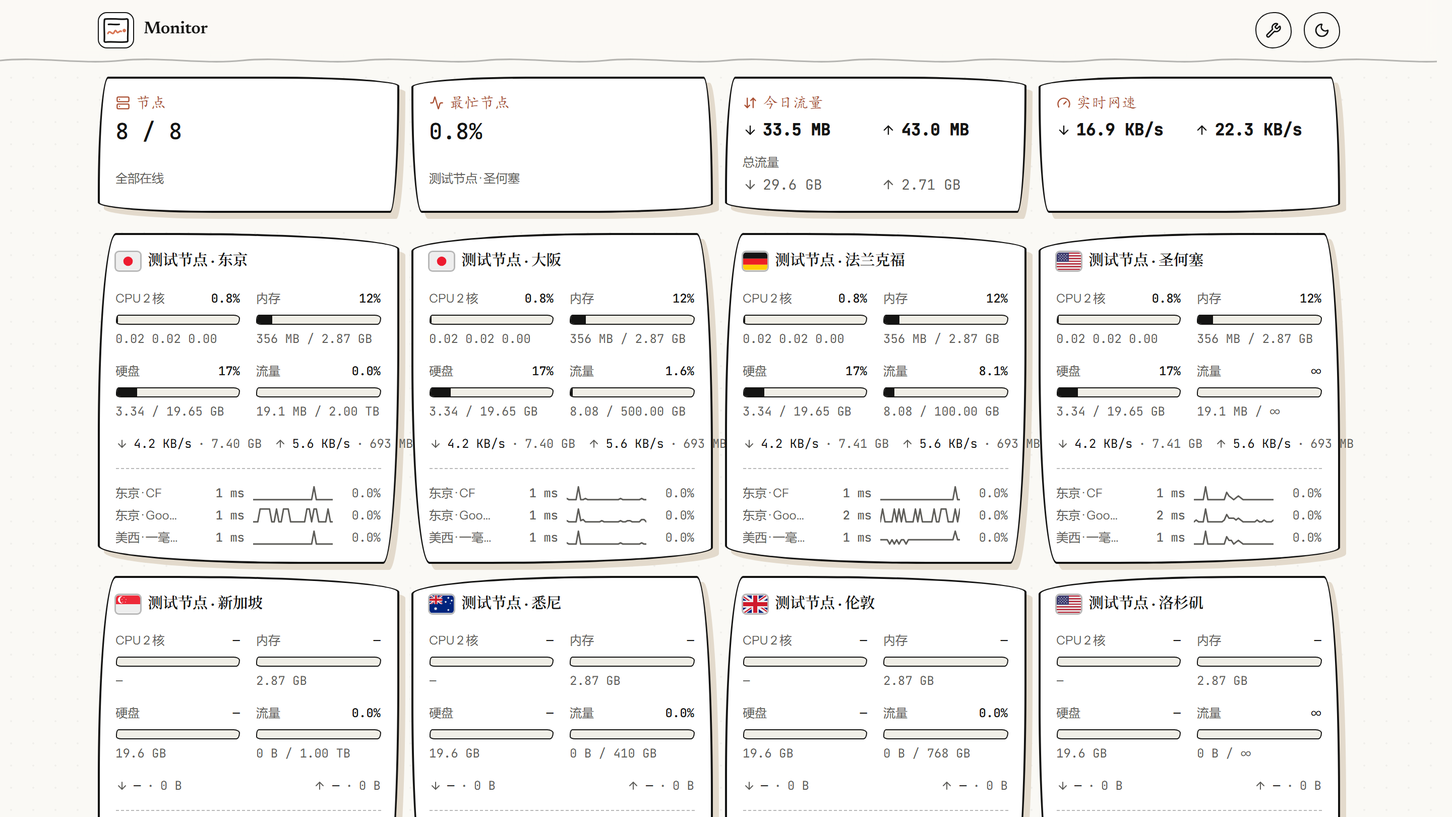
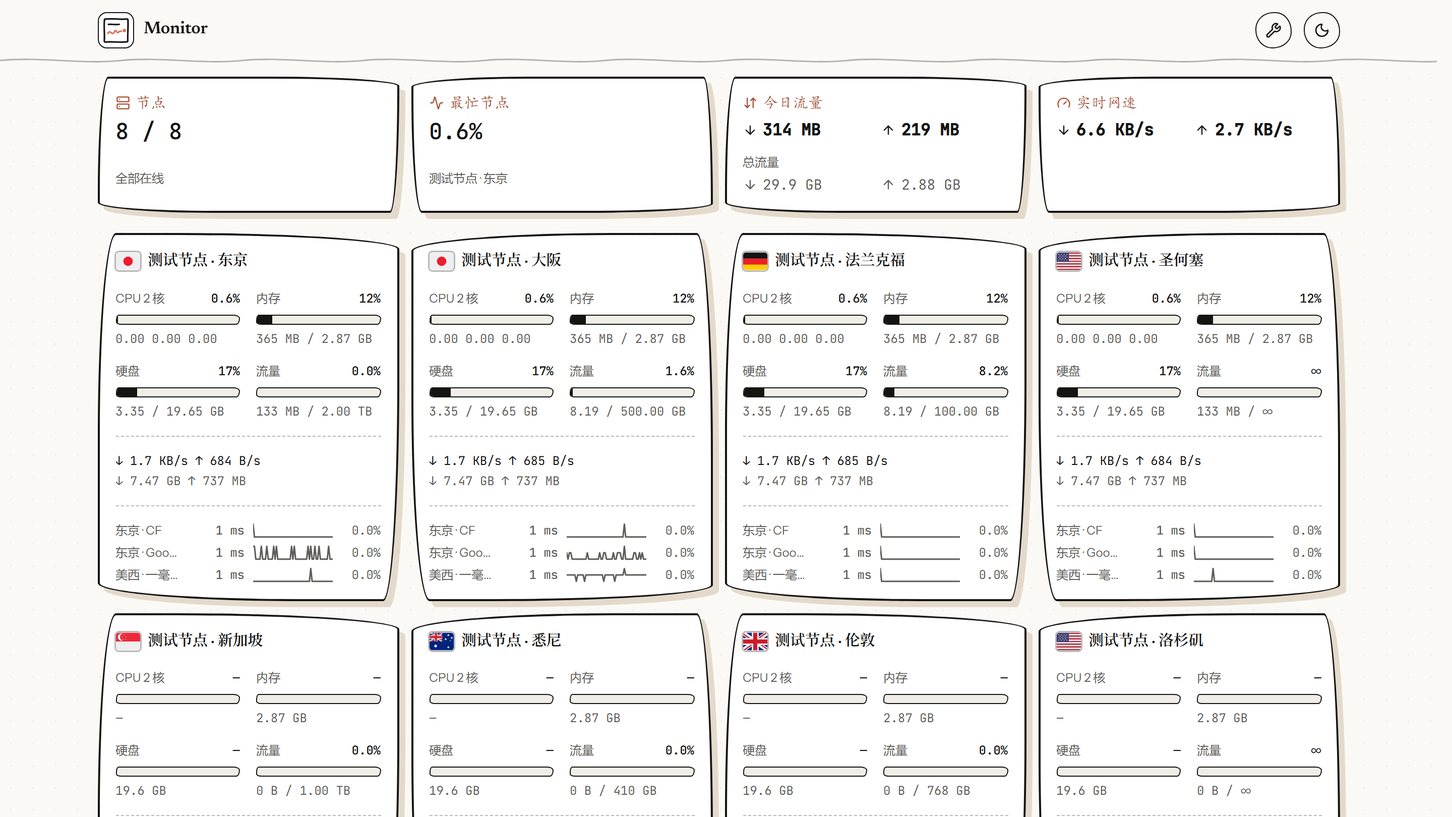
1.1.0：与 jikasei 1.11.x 对齐——新增「简约」卡档并设为默认、经典恢复 2×2 四格、延迟档底部看齐、底部那行允许折行（等宽读数在 4 列下会被截断）

diff --git a/src/components/NodeCard.tsx b/src/components/NodeCard.tsx
@@ -203,17 +203,53 @@ export function NodeCard({ node, onOpen, onWarm, latencyLines, cardStyle, notes 
   /** 指针或键盘刚落到这张卡片上：先把手头这块 chunk（详情页的图表那 391KB）取回来。 */
   onWarm?: () => void
   latencyLines: string
-  cardStyle: "classic" | "latency" | "detailed"
+  cardStyle: "classic" | "latency" | "detailed" | "plain"
   /** 「详细」形态的服务器备注清单（每行 `服务器名=备注`）；空串 = 关闭。 */
   notes: string
 }) {
   const m = node.metrics
   // 详细档：图标、元信息行与三枚读数盒都只在它里面出现；配色仍与另外两档同一套灰。
   const detailed = cardStyle === "detailed"
+  // 简约档：读数格与经典是同一个骨架，只换一套视觉处理——表名提亮成前景色、进度条压细、
+  // 底注变小、格行距收紧、底部网络收成一行（见下方各处 plain 分支）。
+  const plain = cardStyle === "plain"
   // 备注只在「详细」档生效，且清单非空才算开——留空即关闭，这一档保持 1.5.0 的样子。
   const remark = detailed && hasNotes(notes)
   const price = priceText(node)
   const cycle = cycleText(node)
+
+  // 卡片底部那一行网络：简约 / 延迟两档共用**同一个节点**——一行两段，左边实时速率（墨色）、
+  // 右边累计总量（弱化灰），上面一条手画的分隔线；方向用文字 ↓ ↑ 而不是图标，这样整段能原样
+  // 复制成「↓ 88 B/s ↑ 312 B/s」。延迟档原本是「上下行各一组、组内用分隔点连起来」的两端式，
+  // 按要求与简约看齐后也改成这条；两档同一个节点，也是护栏里「逐项相同」那条等价断言的前提。
+  // `data-net` 是给护栏认这一行的锚点（改版后那两条旧判据——按 2×2 那格的类名、按分隔点那行——
+  // 都会失配，命中 0 反而看着像「本来就没有」）。
+  // ★ 这一行**必须允许折行**：本主题的读数走等宽字（JetBrains Mono），比 jikasei 那套 mono 栈宽
+  // 四成左右——同一批数据下 jikasei 那行只要 ~208px，这里要 ~293px，而 4 列（卡片 299px）里只有
+  // ~263px。不折行就两端各自被截成「↓ 3.8 KB/s ↑ 2.8 … / ↓ 7.47 GB ↑ 737…」（实测，见
+  // verify_card_styles 里那条「没有被截断」的断言）。折行后 4 列下是两行、3 列及更宽仍是一行。
+  const netRow = (
+    <div data-net="row" className="tnum mt-4 flex flex-wrap items-center justify-between gap-x-3 gap-y-1 border-t-[1.5px] border-dashed border-line-strong pt-4 text-xs">
+      <span className="truncate">{m ? `↓ ${rate(m.net_rx)} ↑ ${rate(m.net_tx)}` : "—"}</span>
+      <span className="truncate text-muted-foreground">{`↓ ${bytes(node.total_rx)} ↑ ${bytes(node.total_tx)}`}</span>
+    </div>
+  )
+
+  // 经典档底部＝**速率一行、总量一行的 2×2 四格**（与上面读数格同两条列），与上面那条
+  // 一行两段不是一回事。箭头同样是文字 ↓ ↑（不是图标，整段可原样复制）：速率那行的数值用前景色、
+  // 箭头与整行总量用弱化灰。它和简约档的差别只剩「一档是四格、一档是一行」与那几把视觉尺子。
+  const netGrid = (
+    <div data-net="grid" className="tnum mt-4 grid grid-cols-2 gap-x-4 gap-y-2 border-t-[1.5px] border-dashed border-line-strong pt-4 text-xs">
+      <span>
+        <span className="text-muted-foreground">↓</span> {m ? rate(m.net_rx) : "—"}
+      </span>
+      <span>
+        <span className="text-muted-foreground">↑</span> {m ? rate(m.net_tx) : "—"}
+      </span>
+      <span className="text-muted-foreground">↓ {bytes(node.total_rx)}</span>
+      <span className="text-muted-foreground">↑ {bytes(node.total_tx)}</span>
+    </div>
+  )
 
   return (
     <Card
@@ -248,28 +284,36 @@ export function NodeCard({ node, onOpen, onWarm, latencyLines, cardStyle, notes 
         <>
           {detailed && <MetaRow node={node} notes={notes} remark={remark} />}
 
-          <div className="mt-4 grid grid-cols-2 gap-x-4 gap-y-4">
+          <div className={`mt-4 grid grid-cols-2 gap-x-4 ${plain ? "gap-y-3" : "gap-y-4"}`}>
             {/* The core count belongs beside the word CPU: it is what the
                 percentage and the load averages are both measured against. */}
             <Meter
+              plain={plain}
               icon={detailed ? Cpu : undefined}
-              label={`CPU ${node.cpu_cores} 核`}
+              // 简约档：表名提亮，只有那截「N 核」留在弱化灰里（间距用空格而不是 ml-*，
+              // 复制与读屏拿到的仍是「CPU 2 核」）。
+              label={plain
+                ? <>CPU <span className="text-muted-foreground">{node.cpu_cores} 核</span></>
+                : `CPU ${node.cpu_cores} 核`}
               pct={m ? m.cpu : null}
               foot={m ? m.load.map((n) => n.toFixed(2)).join(" ") : "—"}
             />
             <Meter
+              plain={plain}
               icon={detailed ? MemoryStick : undefined}
               label="内存"
               pct={m ? percent(m.mem_used, m.mem_total) : null}
               foot={m ? pair(m.mem_used, m.mem_total) : bytes(node.mem_total)}
             />
             <Meter
+              plain={plain}
               icon={detailed ? HardDrive : undefined}
               label="硬盘"
               pct={m ? percent(m.disk_used, m.disk_total) : null}
               foot={m ? pair(m.disk_used, m.disk_total) : bytes(node.disk_total)}
             />
             <Meter
+              plain={plain}
               icon={detailed ? ArrowDownUp : undefined}
               label="流量"
               pct={node.traffic_limit > 0 ? percent(monthUsage(node), node.traffic_limit) : null}
@@ -279,46 +323,17 @@ export function NodeCard({ node, onOpen, onWarm, latencyLines, cardStyle, notes 
           </div>
 
           {cardStyle === "classic" ? (
-            /* 经典形态：速率一行、总量一行，2×2；不含延迟，也就不发延迟请求。 */
-            <div className="mt-4 grid grid-cols-2 gap-x-4 gap-y-2 border-t-[1.5px] border-dashed border-line-strong pt-4 text-xs">
-              <span className="tnum inline-flex items-center gap-1.5">
-                <ArrowDown className="size-3 text-muted-foreground" />
-                {m ? rate(m.net_rx) : "—"}
-              </span>
-              <span className="tnum inline-flex items-center gap-1.5">
-                <ArrowUp className="size-3 text-muted-foreground" />
-                {m ? rate(m.net_tx) : "—"}
-              </span>
-              <span className="tnum inline-flex items-center gap-1.5 text-muted-foreground">
-                <ArrowDown className="size-3" />
-                {bytes(node.total_rx)}
-              </span>
-              <span className="tnum inline-flex items-center gap-1.5 text-muted-foreground">
-                <ArrowUp className="size-3" />
-                {bytes(node.total_tx)}
-              </span>
-            </div>
+            /* 经典形态：底部分速率一行、总量一行的 2×2 四格；不含延迟，也就不发延迟请求。 */
+            netGrid
+          ) : cardStyle === "plain" ? (
+            /* 简约形态：与经典同一批读数，底部收成一行两段（实时速率 + 累计总量）。 */
+            netRow
           ) : cardStyle === "latency" ? (
             <>
-              {/* 两个方向各一组、左右各占一端（下行在左、上行在右，与经典形态的读法一致），
-                  组内「实时速率 · 累计总量」用一枚分隔点连起来；颜色沿用原本一套：实时速率用
-                  前景色，累计总量与箭头、分隔点都用弱化灰。 */}
-              {/* 这一组紧接在上面的用量格之后，横线挪到它下面（见 Latency 的边框），
-                  由那条线把「速率 · 总量」与下面的三网延迟分开。 */}
-              <div className="mt-4 flex items-center justify-between gap-x-3 text-xs">
-                <span className="tnum inline-flex items-center gap-1.5 whitespace-nowrap">
-                  <ArrowDown className="size-3 shrink-0 text-muted-foreground" />
-                  {m ? rate(m.net_rx) : "—"}
-                  <span className="text-muted-foreground">·</span>
-                  <span className="text-muted-foreground">{bytes(node.total_rx)}</span>
-                </span>
-                <span className="tnum inline-flex items-center gap-1.5 whitespace-nowrap">
-                  <ArrowUp className="size-3 shrink-0 text-muted-foreground" />
-                  {m ? rate(m.net_tx) : "—"}
-                  <span className="text-muted-foreground">·</span>
-                  <span className="text-muted-foreground">{bytes(node.total_tx)}</span>
-                </span>
-              </div>
+              {/* 延迟档底部与「简约」是同一个 netRow 节点（版本对齐后不再各写一份），
+                  它自己的 border-t 把「用量格」与「速率·总量」分开；三网延迟那条线由
+                  LatencyPanel 自己画在下面。 */}
+              {netRow}
               {/* 三网延迟：每条线路一行，数据来自 hub 的 ping 历史（详见 Latency.tsx）。 */}
               <LatencyPanel node={node} lines={latencyLines} />
             </>

diff --git a/src/components/Meter.tsx b/src/components/Meter.tsx
@@ -7,6 +7,12 @@ type Props = {
   empty?: ReactNode
   /** 详细档：表名前的图标（lucide 组件）。经典与延迟档不传，保持纯文字。 */
   icon?: ComponentType<{ className?: string; style?: CSSProperties }>
+  /**
+   * 简约档的读数窗：表名改用前景色（附加说明仍留在弱化灰里）、进度条压到 6px 且上下各留 6px、
+   * 底注降到 11px。三处一起动才是那一档的观感——只把条调细、表名仍是灰的，整块看着像没对齐的旧版。
+   * 经典 / 延迟 / 详细三档不传，保持原样。
+   */
+  plain?: boolean
 }
 
 /**
@@ -15,8 +21,11 @@ type Props = {
  *
  * 详细档也照旧：只是在表名前多一枚图标，颜色仍与其余两档同一套灰——图标随所在的
  * 弱化灰文字走 currentColor，不另上色。
+ *
+ * 简约档（`plain`）与经典共用同一个骨架，只换那一套视觉：表名提亮成前景色（CPU 那格的
+ * 「N 核」仍留在弱化灰里）、条压细、底注变小，见上面的 props 说明。
  */
-export function Meter({ label, pct, foot, empty = "—", icon: Icon }: Props) {
+export function Meter({ label, pct, foot, empty = "—", icon: Icon, plain = false }: Props) {
   // null means the metric has no ceiling to fill, so the bar stays empty rather
   // than reporting 0%. What replaces the percentage depends on the reason:
   // unknown for a node with no metrics, ∞ for a plan with no limit.
@@ -27,7 +36,7 @@ export function Meter({ label, pct, foot, empty = "—", icon: Icon }: Props) {
   return (
     <div className="min-w-0">
       <div className="flex items-baseline justify-between gap-2">
-        <span className="flex min-w-0 items-center gap-1.5 text-xs text-muted-foreground">
+        <span className={`flex min-w-0 items-center gap-1.5 text-xs${plain ? "" : " text-muted-foreground"}`}>
           {Icon && <Icon className="size-3 shrink-0" />}
           <span className="truncate">{label}</span>
         </span>
@@ -35,10 +44,10 @@ export function Meter({ label, pct, foot, empty = "—", icon: Icon }: Props) {
           {pct === null ? empty : `${filled < 10 ? filled.toFixed(1) : filled.toFixed(0)}%`}
         </span>
       </div>
-      <div className={`sk-bar mt-2 h-2.5 w-full${hot ? " sk-bar-hot" : ""}`}>
+      <div className={`sk-bar w-full${plain ? " my-1.5 h-1.5" : " mt-2 h-2.5"}${hot ? " sk-bar-hot" : ""}`}>
         <div className="sk-bar-fill h-full" style={{ width: `${filled}%` }} />
       </div>
-      <div className="tnum mt-1.5 truncate text-xs text-muted-foreground">{foot}</div>
+      <div className={`tnum truncate text-muted-foreground${plain ? " text-[11px]" : " mt-1.5 text-xs"}`}>{foot}</div>
     </div>
   )
 }

diff --git a/src/lib/site-settings.ts b/src/lib/site-settings.ts
@@ -25,10 +25,12 @@ export type ThemeConfig = {
    */
   farmUrl: string
   /**
-   * 卡片形态：classic = 网络两行、不含延迟；latency = 网络单行 + 三网延迟；detailed = 再加在线时长、
-   * 价格与到期；compact = 一行一台的表格（列随屏宽收放，密度最高）。
+   * 卡片形态：classic = 速率与总量各一行（2×2 四格）、不含延迟；plain = 网络合成一行，
+   * 读数那层另换一套视觉处理（标签提亮、条压细、底注变小）、不含延迟；latency = 网络一行 +
+   * 三网延迟；detailed = 再加在线时长、价格与到期；compact = 一行一台的表格（密度最高）。
+   * 默认是 plain（与 jikasei 1.11.2 同口径）。
    */
-  cardStyle: "classic" | "latency" | "detailed" | "compact"
+  cardStyle: "classic" | "latency" | "detailed" | "plain" | "compact"
   /**
    * 列表页顶部显示什么：none = 都不显示；groups = 分组标签行；summary = 概览卡片行（原版）；
    * budget = 概览卡片行（月度预算剩余价值版）；both = 分组标签行 + 原版概览卡片；
@@ -50,8 +52,9 @@ export const DEFAULTS: ThemeConfig = {
   // 「装主题」与「部署养鸡场」是两件事，站长没装就不该多出一枚点了没反应的图标；
   // 想固定指向别处（包括别人的公开那座）就填地址，想一律不显示就填 `off`。
   farmUrl: "",
-  // 默认「经典」：紧凑、不发延迟请求；想带三网延迟的在后台切「延迟」，机器多想一屏看全的切「紧凑」。
-  cardStyle: "classic",
+  // 默认「简约」：网络合成一行、读数那层标签提亮/条更细，和经典一样不发延迟请求。
+  // 想看老样子（速率与总量各一行）在后台切「经典」，要三网延迟的切「延迟」，机器多想一屏看全的切「紧凑」。
+  cardStyle: "plain",
   // 默认「都不显示」：这两行都是「一眼看全站」的补充，站点本来就有每台机器的卡片；
   // 关着时它们整个不挂载，首屏与没有这个功能时一模一样。
   listTop: "none",
@@ -71,7 +74,7 @@ export const DEFAULTS: ThemeConfig = {
 export function cardStyleOf(v: unknown): ThemeConfig["cardStyle"] {
   // ≤1.2.9 的值：那时候这一档叫「详细」，现在叫「延迟」——同一档，只是换了名字。
   if (v === "detail") return "latency"
-  if (v === "classic" || v === "latency" || v === "detailed" || v === "compact") return v
+  if (v === "classic" || v === "latency" || v === "detailed" || v === "plain" || v === "compact") return v
   return DEFAULTS.cardStyle
 }
 

diff --git a/src/lib/site-settings.test.ts b/src/lib/site-settings.test.ts
@@ -2,7 +2,7 @@
 // 跑法同另外几个：`npm test`（Node 自己剥类型，不需要 runner）。没有任何东西 import 它，不进 bundle。
 //
 // 重点在三处容易静默出错的迁移：
-//   1. cardStyle：≤1.2.9 的 "detail" 现在叫 "latency"，1.9.0 起多了 "compact";
+//   1. cardStyle：≤1.2.9 的 "detail" 现在叫 "latency"，1.9.0 起多了 "compact"，1.1.0 起多了 "plain"（也是默认档）;
 //   2. listTop：≤1.4.0 是两个布尔开关（showSummary / showGroupTabs），1.5.0 合成四选一；
 //   3. farmUrl：≤1.5.0 是两个键（showFarmEntry + farmUrl），1.6.0 并成一个三态键。
 // 读不出来的表现不是报错，而是「站长开着的那一项自己关了」。
@@ -21,9 +21,9 @@ function eq(got: unknown, want: unknown, what: string) {
 
 // ── cardStyle：旧名迁移 ───────────────────────────────────────────────
 eq(cardStyleOf("detail"), "latency", '旧值 "detail" 迁到 "latency"')
-for (const v of ["classic", "latency", "detailed", "compact"]) eq(cardStyleOf(v), v, `cardStyle 保留 ${v}`)
-eq(cardStyleOf("nope"), "classic", "cardStyle 认不出的值回落经典")
-eq(cardStyleOf(undefined), "classic", "cardStyle 没存过回落经典")
+for (const v of ["classic", "latency", "detailed", "plain", "compact"]) eq(cardStyleOf(v), v, `cardStyle 保留 ${v}`)
+eq(cardStyleOf("nope"), "plain", "cardStyle 认不出的值回落「简约」（默认档）")
+eq(cardStyleOf(undefined), "plain", "cardStyle 没存过回落「简约」（默认档）")
 
 // ── listTop：六选一本身就认 ───────────────────────────────────────────
 const TOPS = ["none", "groups", "summary", "budget", "both", "bothBudget"] as const

diff --git a/src/App.tsx b/src/App.tsx
@@ -401,8 +401,8 @@ function NodeList({ nodes, group, onGroup, onOpen, onWarm, showTabs, latencyLine
   showTabs: boolean
   /** 卡片延迟块要显示哪几条线路（ping 任务名，换行分隔）；空串 = 自动。 */
   latencyLines: string
-  /** 卡片形态：compact = 一行一台的表格；detailed = 在延迟形态上再加在线时长与元信息；latency 网络单行 + 延迟；classic 网络两行、无延迟。 */
-  cardStyle: "classic" | "latency" | "detailed" | "compact"
+  /** 卡片形态：compact = 一行一台的表格；detailed = 在延迟形态上再加在线时长与元信息；latency 网络单行 + 延迟；classic 速率与总量各一行、无延迟；plain 与经典同一批读数、只换一套视觉处理。 */
+  cardStyle: "classic" | "latency" | "detailed" | "plain" | "compact"
   /** 「详细」形态的服务器备注清单（每行 `服务器名=备注`）；空串 = 关闭。 */
   notes: string
 }) {

diff --git a/README.md b/README.md
@@ -12,7 +12,7 @@
 
 ## 特性
 
-- **四种卡片形态**：经典 / 延迟 / 详细（含备注标签与计费）/ 紧凑（一行一台的表格，点一行就地摊开延迟图）。
+- **五种卡片形态**：经典（速率与总量各一行）/ 简约（网络合成一行，标签提亮、进度条更细——默认）/ 延迟（下方带三网延迟）/ 详细（含备注标签与计费）/ 紧凑（一行一台的表格，点一行就地摊开延迟图）。
 - **分组标签行与概览卡片行**（可选）：在线数、最忙节点、今日与累计流量、全站实时网速；概览卡片另有「月度预算 + 剩余价值」那一版。
 - **节点详情页**：规格、7 天窗口的 CPU / 内存 / 网速 / 硬盘曲线，以及延迟图（多线路、丢包率、削峰、拖拽缩放）。
 - **深浅两套配色**：纸白与「暖夜」，都是同一套墨线 + 陶土橙。
@@ -21,11 +21,15 @@
 
 ## 预览
 
-左起：「经典」「延迟」「详细」「紧凑」四种卡片形态。
+五种卡片形态（默认是「简约」）：
 
-| 经典形态（默认） | 延迟形态 | 详细形态 | 紧凑形态 |
-|---|---|---|---|
-| ![经典形态](preview-classic.png) | ![延迟形态](preview-latency.png) | ![详细形态](preview-detailed.png) | ![紧凑形态](preview-compact.png) |
+| 简约形态（默认） | 经典形态 |
+|---|---|
+| ![简约形态](preview-plain.png) | ![经典形态](preview-classic.png?v=2) |
+| 延迟形态 | 详细形态 |
+| ![延迟形态](preview-latency.png?v=2) | ![详细形态](preview-detailed.png) |
+| 紧凑形态 | |
+| ![紧凑形态](preview-compact.png) | |
 
 ## 安装
 
@@ -40,7 +44,7 @@
 | 站点图标 | `/site-icon.png` | 顶栏那枚 36px 方标的地址，同时也是浏览器标签页／书签／手机桌面快捷方式的图标。填完整网址或站内路径；取不到就回落到主题自带那张。 |
 | 养鸡场入口 | 空（自动） | 顶栏那枚小鸟图标的去处，三种状态挤在一格里：留空 = 自动认本站 `/chicken/`（装了才显示）；填 `off` = 不显示入口（相关的探测与渲染都不再发生）；填地址 = 固定指向别处（同域路径或完整网址）。 |
 | 列表页顶部 | 都不显示 | 列表页顶部显示什么，六选一：**都不显示**（默认）／**只显示分组标签**／**只显示概览卡片·原版**／**只显示概览卡片·价值版**／**两个都显示·概览卡片原版**／**两个都显示·概览卡片价值版**。分组标签 = 那一行「全部 / 各组 / 未分组」，节点本来就没有分组时无论如何都不显示；概览卡片 = 那行统计卡片，数据都取自节点列表本身、不多发请求，只有实时网速那张下面那条走势线画的是访客打开页面后的实时速率，刷新页面就从空的重新攒。原版是四张卡片各一块读数（节点在线数、最忙节点、今日与累计流量、全站实时网速）；月度预算剩余价值版把前两张各排两块读数——第一张是「月度预算」与「剩余价值」，第二张是「节点」与「最忙节点」（两块分居卡片两端）。**月度预算** = 各节点价格按计费周期摊到每月后相加；**剩余价值** = 已付但没用完的那一段（价格 × 剩余天数 ÷ 周期天数）；两者都按主题里写死的固定汇率折成人民币显示（因此写「≈」，口径与汇率在悬停提示里），一次性买断、没填价格、没有到期日的机器不计入。 |
-| 卡片形态 | 经典 | 卡片长什么样：「经典」网络速率与总量分两行、不含延迟（也就不去拉延迟数据）；「延迟」网络合成一行（下行在左、上行在右，各自「速率 · 累计总量」）、下方带三网延迟；「详细」在延迟之上再添在线时长、价格与到期；「紧凑」换成一行一台的表格（名称 / 系统 / 在线 / 剩余 / 价格 / 负载 / 网速 / CPU / 内存 / 硬盘 / 流量，列随屏宽收放、每个指标带一条细进度条），一屏能排下两三倍。**紧凑形态点一行就地展开**——展开行里挂的是那张带 1 / 6 / 24 小时 / 7 天范围与削峰开关的延迟图（不跳详情页），要去整页详情点展开行右上角的入口。四种形态配色与读数口径一致，只有信息多少与排布不同。 |
+| 卡片形态 | 简约 | 卡片长什么样，五选一：「经典」网络速率与总量分两行（2×2 四格）、不含延迟（也就不去拉延迟数据）；「简约」网络收成一行（左边实时速率、右边累计总量），读数那一层另换一套视觉——标签用墨色而不是弱化灰、进度条更细、底注更小、格行距更紧，同样不含延迟；「延迟」再加上三网延迟；「详细」在延迟之上再添在线时长、价格与到期；「紧凑」换成一行一台的表格（名称 / 系统 / 在线 / 剩余 / 价格 / 负载 / 网速 / CPU / 内存 / 硬盘 / 流量，列随屏宽收放、每个指标带一条细进度条），一屏能排下两三倍。**紧凑形态点一行就地展开**——展开行里挂的是那张带 1 / 6 / 24 小时 / 7 天范围与削峰开关的延迟图（不跳详情页），要去整页详情点展开行右上角的入口。五种形态配色与读数口径一致，只有信息多少与排布不同。 |
 | 服务器备注 | 空（关闭） | 只在「详细」形态上生效的备注标签。每行一台：`服务器名=备注`；`#` 开头的行是注释；备注里用逗号分隔就是多枚标签（`东京机=三网优化,备用` 挂两枚），排不下时自动折行。留空 = 关闭，「详细」卡片按原样排（在线时长在左、价格在右、第三枚读数盒下面写到期日）。填了内容即开启，卡片改成：备注标签落在原先在线时长的位置、在线时长右移、价格从第二行移进第三枚读数盒的下面一行（上面仍是剩余时间，金额前的货币符号单独占一列、与上面的时钟图标对齐；到期日不再显示）。 |
 | 显示的延迟线路 | 空（自动） | 卡片「三网延迟」里显示哪几条线路。每行一个 ping 任务名，最多三个，按填写的顺序显示；留空则按后台顺序自动显示前三条。名字对不上（改过名、任务删了）那一行跳过。仅在「延迟」「详细」形态下生效，数据每 60 秒刷新一次。 |
 
@@ -69,6 +73,7 @@ node tools/shot_local.mjs http://127.0.0.1:28081 shots/x '{"listTop":"both"}'
 
 | 版本 | 说明 |
 |---|---|
+| 1.1.0 | 与 `jikasei` 1.11.x 对齐：新增「简约」卡片形态（网络合成一行、标签提亮、进度条更细、底注更小）并把它设为默认档；经典档恢复成速率与总量各一行的 2×2 四格；延迟档底部改成与「简约」同一行（方向改用文字 `↓ ↑`，整段可原样复制）；预览图按新默认重拍。 |
 | 1.0.0 | 首个版本：以自家 `jikasei` 的骨架为底（四种卡片形态、分组、概览、详情页图表），换上 cc-router 气质的**手绘纸感**皮肤——墨线描边、歪圆角、硬偏移影子、波浪分隔线、虚线分隔、等宽读数；字体换成随包的 Newsreader / Instrument Sans / JetBrains Mono / Caveat；`tnum` 一律走等宽字；进度条改成手画的墨线槽，读数过 85% 转陶土橙。 |
 
 ## 许可
